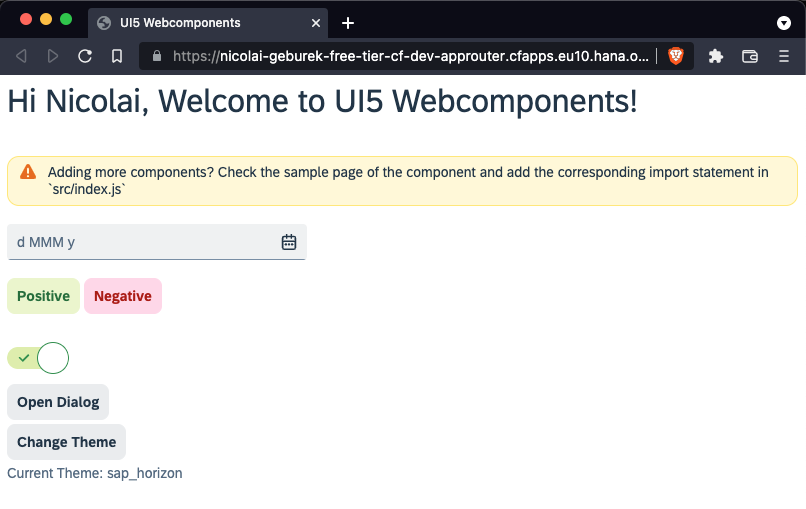
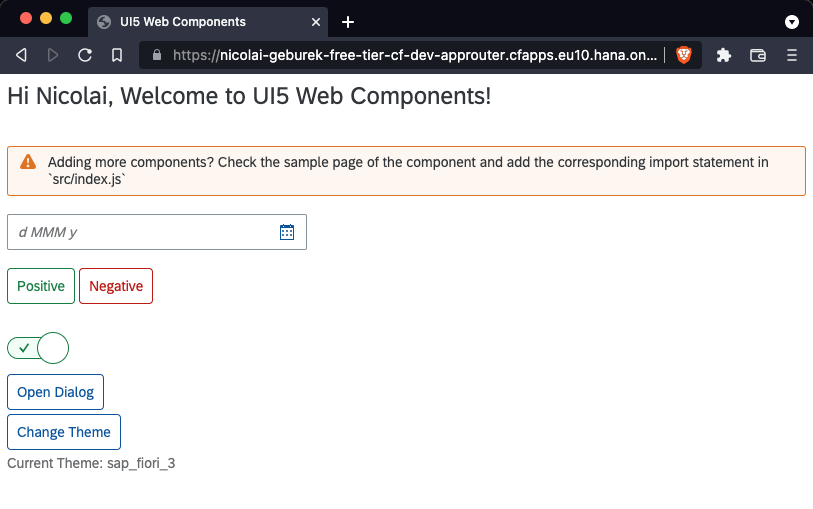
🆕 sample for ui5 webcomponents 💙

diff --git a/standalone-approuter-html5-mta-ui5webcomponents/ui5webcomponents/src/index.js b/standalone-approuter-html5-mta-ui5webcomponents/ui5webcomponents/src/index.js
@@ -13,7 +13,7 @@ import "@ui5/webcomponents/dist/Assets";
 fetch("/user-api/currentUser").then((res) => {
   return res.json();
 }).then((user) => {
-  document.getElementById("title").textContent = `Hi ${user.firstname}, Welcome to UI5 Webcomponents!`
+  document.getElementById("title").textContent = `Hi ${user.firstname}, Welcome to UI5 Web Components!`
 });
 
 function switchTheme() {
